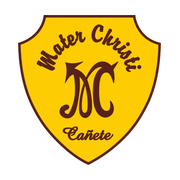
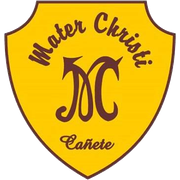
feat(diseno): carrusel del login con fotos del colegio y escudo transparente en pestañas
Fachada fija y 4 fotos del colegio que se desplazan para verse completas; sin pausa por
mouse ni botón (decisión del usuario). Escudo con fondo transparente en favicon, icon,
apple-icon y escudo.webp. Restaura el encabezado del panel del login.

diff --git a/apps/web/components/auth/login-carousel.tsx b/apps/web/components/auth/login-carousel.tsx
@@ -1,24 +1,34 @@
 'use client';
 
-// Carrusel de fotos del colegio en el login (motion-design, arquetipo Corporate).
-// - Capa primaria: fundido cruzado de 700 ms ease-in-out cada 7 s (cambio en pantalla).
-// - Capa ambiente: acercamiento lento de 1 a 1,04 mientras la foto está visible.
-// - Accesible: se pausa al pasar el mouse o con el foco, tiene botón de pausa (WCAG 2.2.2) y
-//   con prefers-reduced-motion no avanza solo ni hace zoom.
-// Para agregar fotos del colegio, súmalas a SLIDES (webp, sin rostros identificables de menores).
+// Carrusel de fotos del colegio en el login (skill motion-design, arquetipo Corporate).
+// El panel es más alto que ancho, así que una foto horizontal no cabe entera: cada foto se
+// desplaza despacio de izquierda a derecha (ease-in-out) para mostrarla completa, y al terminar
+// pasa a la siguiente con un fundido cruzado de 700 ms. La fachada queda fija, centrada.
+// - Empieza solo al cargar y no tiene botón de pausa (decisión del usuario, 10/11/2026; queda
+//   fuera de WCAG 2.2.2). Con reduced motion no avanza ni se desplaza.
+// - Con prefers-reduced-motion no avanza solo ni se desplaza: queda cada foto centrada.
+// Solo fotos del colegio (decisión del usuario, 10/11/2026), en public/brand/colegio/.
 import Image, { type StaticImageData } from 'next/image';
-import { useEffect, useState } from 'react';
-import { Pause, Play } from 'lucide-react';
+import { useEffect, useState, type CSSProperties } from 'react';
 import fachada from '../../assets/fondo_login_av.webp';
 
-type Slide = { src: StaticImageData | string; position: string };
+type Slide = {
+  src: StaticImageData | string;
+  /** Recorrido horizontal: la foto se desplaza para verse entera. */
+  pan: boolean;
+  /** Tiempo en pantalla, incluido el desplazamiento. */
+  ms: number;
+  /** Encuadre vertical. */
+  y: string;
+};
 
 const SLIDES: Slide[] = [
-  { src: fachada, position: 'center 46%' },
-  { src: '/brand/login-aula.webp', position: 'center 55%' },
+  { src: fachada, pan: false, ms: 3500, y: '46%' },
+  { src: '/brand/colegio/patio-evento.webp', pan: true, ms: 7000, y: '50%' },
+  { src: '/brand/colegio/premiacion.webp', pan: true, ms: 7000, y: '45%' },
+  { src: '/brand/colegio/docentes.webp', pan: true, ms: 6500, y: '40%' },
+  { src: '/brand/colegio/jardin.webp', pan: true, ms: 6000, y: '50%' },
 ];
-
-const INTERVAL_MS = 7000;
 
 function prefersReducedMotion(): boolean {
   return (
@@ -28,28 +38,24 @@ function prefersReducedMotion(): boolean {
 
 export function LoginCarousel() {
   const [index, setIndex] = useState(0);
-  const [paused, setPaused] = useState(false);
-  const [hovered, setHovered] = useState(false);
   const many = SLIDES.length > 1;
 
   useEffect(() => {
-    if (!many || paused || hovered || prefersReducedMotion()) return;
-    const t = window.setTimeout(() => setIndex((i) => (i + 1) % SLIDES.length), INTERVAL_MS);
+    if (!many || prefersReducedMotion()) return;
+    const t = window.setTimeout(() => setIndex((i) => (i + 1) % SLIDES.length), SLIDES[index]!.ms);
     return () => window.clearTimeout(t);
-  }, [index, paused, hovered, many]);
+  }, [index, many]);
 
   return (
-    <div
-      className="absolute inset-0 -z-10 overflow-hidden"
-      onMouseEnter={() => setHovered(true)}
-      onMouseLeave={() => setHovered(false)}
-    >
+    <div className="absolute inset-0 -z-10 overflow-hidden">
       {SLIDES.map((s, i) => (
         <div
-          key={i}
+          key={typeof s.src === 'string' ? s.src : 'fachada'}
           aria-hidden="true"
           className="login-slide absolute inset-0"
           data-active={i === index ? '' : undefined}
+          data-pan={s.pan ? '' : undefined}
+          style={{ '--pan-ms': `${s.ms}ms`, '--pan-y': s.y } as CSSProperties}
         >
           <Image
             src={s.src}
@@ -59,7 +65,6 @@ export function LoginCarousel() {
             unoptimized={typeof s.src === 'string'}
             sizes="(min-width: 1024px) 54vw, 100vw"
             className="login-slide-img object-cover"
-            style={{ objectPosition: s.position }}
           />
         </div>
       ))}
@@ -68,9 +73,9 @@ export function LoginCarousel() {
         className="absolute inset-0 bg-gradient-to-b from-brand-dark/80 via-brand-dark/15 to-brand-dark/90"
       />
       {many && (
-        <div className="absolute right-5 bottom-5 flex items-center gap-2 lg:right-12 lg:bottom-10">
+        <div className="absolute right-5 bottom-5 lg:right-12 lg:bottom-10">
           <div className="flex gap-1.5" aria-hidden="true">
-            {SLIDES.map((_, i) => (
+            {SLIDES.map((s, i) => (
               <span
                 key={i}
                 className="login-dot h-1.5 rounded-full bg-white/50"
@@ -78,15 +83,6 @@ export function LoginCarousel() {
               />
             ))}
           </div>
-          <button
-            type="button"
-            onClick={() => setPaused((p) => !p)}
-            aria-label={paused ? 'Reanudar fotos del colegio' : 'Pausar fotos del colegio'}
-            aria-pressed={paused}
-            className="grid size-9 place-items-center rounded-full bg-black/30 text-white transition-colors hover:bg-black/45 focus-visible:outline-2 focus-visible:outline-offset-2 focus-visible:outline-gold"
-          >
-            {paused ? <Play className="size-4" /> : <Pause className="size-4" />}
-          </button>
         </div>
       )}
     </div>

diff --git a/apps/web/app/login/page.tsx b/apps/web/app/login/page.tsx
@@ -10,6 +10,21 @@ export default function LoginPage() {
       <aside className="relative isolate hidden min-h-0 flex-col overflow-hidden bg-brand px-5 py-3 text-ink-inverse lg:flex lg:px-12 lg:py-10">
         <LoginCarousel />
 
+        <div className="flex items-center gap-3.5">
+          <Image
+            src="/brand/escudo.webp"
+            alt=""
+            width={60}
+            height={72}
+            unoptimized
+            className="h-12 w-10 object-contain sm:h-[68px] sm:w-14"
+          />
+          <div>
+            <p className="text-xl font-semibold tracking-tight sm:text-2xl">Mater Christi</p>
+            <p className="mt-0.5 text-sm text-ink-inverse/80 sm:text-base">Aula virtual</p>
+          </div>
+        </div>
+
         <div className="motion-in mt-auto max-w-xl pt-4 lg:pb-5 lg:pt-16">
           <span className="mb-3 block h-1 w-12 rounded-full bg-gold lg:mb-5" />
           <p className="max-w-lg text-2xl leading-tight font-semibold tracking-tight text-balance sm:text-4xl lg:text-5xl">

diff --git a/apps/web/app/globals.css b/apps/web/app/globals.css
@@ -191,11 +191,19 @@
   opacity: 1;
 }
 .login-slide-img {
-  transform: scale(1);
-  transition: transform 7600ms var(--ease-onscreen);
+  object-position: 50% var(--pan-y, 50%);
 }
-.login-slide[data-active] .login-slide-img {
-  transform: scale(1.04);
+/* Foto horizontal en panel vertical: recorre de izquierda a derecha para verse entera. */
+@keyframes login-pan {
+  from {
+    object-position: 0% var(--pan-y, 50%);
+  }
+  to {
+    object-position: 100% var(--pan-y, 50%);
+  }
+}
+.login-slide[data-pan][data-active] .login-slide-img {
+  animation: login-pan var(--pan-ms, 10000ms) var(--ease-onscreen) both;
 }
 .login-dot {
   width: 0.375rem;
@@ -243,10 +251,8 @@ html[data-leaving] [data-app-shell] {
   .login-slide {
     transition-duration: 200ms;
   }
-  .login-slide-img,
-  .login-slide[data-active] .login-slide-img {
-    transform: none;
-    transition: none;
+  .login-slide[data-pan][data-active] .login-slide-img {
+    animation: none;
   }
   @keyframes leave-app {
     to {

diff --git a/.claude/tareas/20261108-diseno-web.md b/.claude/tareas/20261108-diseno-web.md
@@ -59,3 +59,18 @@ Vueltas de corrección: 0/2
   - reduced motion: solo opacidad, la mitad de duración, sin avance automático ni zoom.
 - Fotos del carrusel: la fachada real (asset de David) y el aula de Pexels (`public/brand/login-aula.webp`, pública porque `/maqueta` exige sesión). Faltan las fotos del colegio.
 - Verificación: tsc 0, lint 0, web 560 ok, build 5/5 (antes del motion), y en el navegador el carrusel avanza y pausa.
+
+## 10/11/2026 — Fotos del colegio y escudo transparente
+
+- El usuario entregó 4 fotos del colegio y el escudo. Fotos en `public/brand/colegio/` (webp, 67–104 KB): patio-evento, premiacion, docentes y jardin. La fachada de David sigue como primera.
+- El escudo tiene el fondo blanco transparente: `public/brand/escudo.webp`, `app/icon.png`, `app/apple-icon.png` y `app/favicon.ico` (16/32/48), así que se ve en todas las pestañas.
+- Carrusel: las fotos horizontales recorren de izquierda a derecha (`object-position` 0→100 %, ease-in-out, 9–11 s) y luego hay un fundido a la siguiente. La fachada queda fija 6 s. Se pausa con el mouse encima o con el botón. Con reduced motion no hay desplazamiento ni avance automático.
+- Se corrigió que una edición anterior había borrado el encabezado del panel (escudo + "Mater Christi").
+- Las fotos muestran rostros de menores: el usuario las entregó, pero publicarlas requiere la autorización del colegio (Ley 29733).
+- Verificación: tsc 0 y eslint 0. En el navegador cargan las 5 fotos, el desplazamiento corre y el encabezado aparece.
+
+## 10/11/2026 — Ajustes del carrusel
+
+- El carrusel ya no se pausa con el mouse encima. Tiempos más cortos: fachada 3,5 s y fotos de 6 a 7 s.
+- El usuario pidió quitar el botón de pausa (queda fuera de WCAG 2.2.2, anotado en el código).
+- El usuario confirmó en su navegador que el carrusel avanza solo. El navegador de la app no hidrataba porque su panel estaba oculto (rAF bloqueado); no era un fallo del código.

diff --git a/.claude/reportes/20261110-motion-integracion.md b/.claude/reportes/20261110-motion-integracion.md
@@ -64,3 +64,27 @@ Lee https://github.com/lottiefiles/motion-design-skill (README y el SKILL.md o a
 - La integración y el motion aún no van al repo del grupo.
 
 Expediente: `.claude/tareas/20261108-diseno-web.md`.
+
+## Actualización: fotos del colegio y escudo (10/11/2026)
+
+- **Pedido:** "el escudo haz que sea de fondo traslucido en todas las pestañas, la imagen que esta actualmente en la web permanecera, (…) las fotos que estan horizontales tenga un desplazamiento para que se muestre todo y seguiras a la siguiente imagen". Después: "Quítalo" (el botón de pausa) y "Sí, commit y push".
+- **Resultado:**
+  - Carrusel con la fachada fija y 4 fotos entregadas por el usuario, que se recorren de izquierda a derecha.
+  - Tiempos más cortos y sin pausa con el mouse ni botón de pausa.
+  - Escudo con fondo transparente en favicon, icon, apple-icon y `escudo.webp`.
+  - Se restauró el encabezado del panel, que una edición anterior había borrado.
+- **Agentes:** ninguno, lo hizo el orquestador.
+- **Decisiones:**
+  - Las fotos se convirtieron con sharp a webp de 1600 px.
+  - El fondo blanco del escudo se volvió transparente por umbral.
+  - Quitar la pausa deja la web fuera de WCAG 2.2.2, por decisión del usuario.
+  - Las fotos muestran menores: hace falta la autorización del colegio antes de publicarlas (Ley 29733).
+- **Archivos:**
+  - `apps/web/public/brand/colegio/*.webp`
+  - `apps/web/app/{favicon.ico,icon.png,apple-icon.png}`
+  - `apps/web/public/brand/escudo.webp`
+  - `apps/web/components/auth/login-carousel.tsx`
+  - `apps/web/app/login/page.tsx`
+  - `apps/web/app/globals.css`
+  - se eliminó `public/brand/login-aula.webp`
+- **Verificación:** tsc 0 y eslint 0. El usuario confirmó en su navegador que el carrusel avanza.
